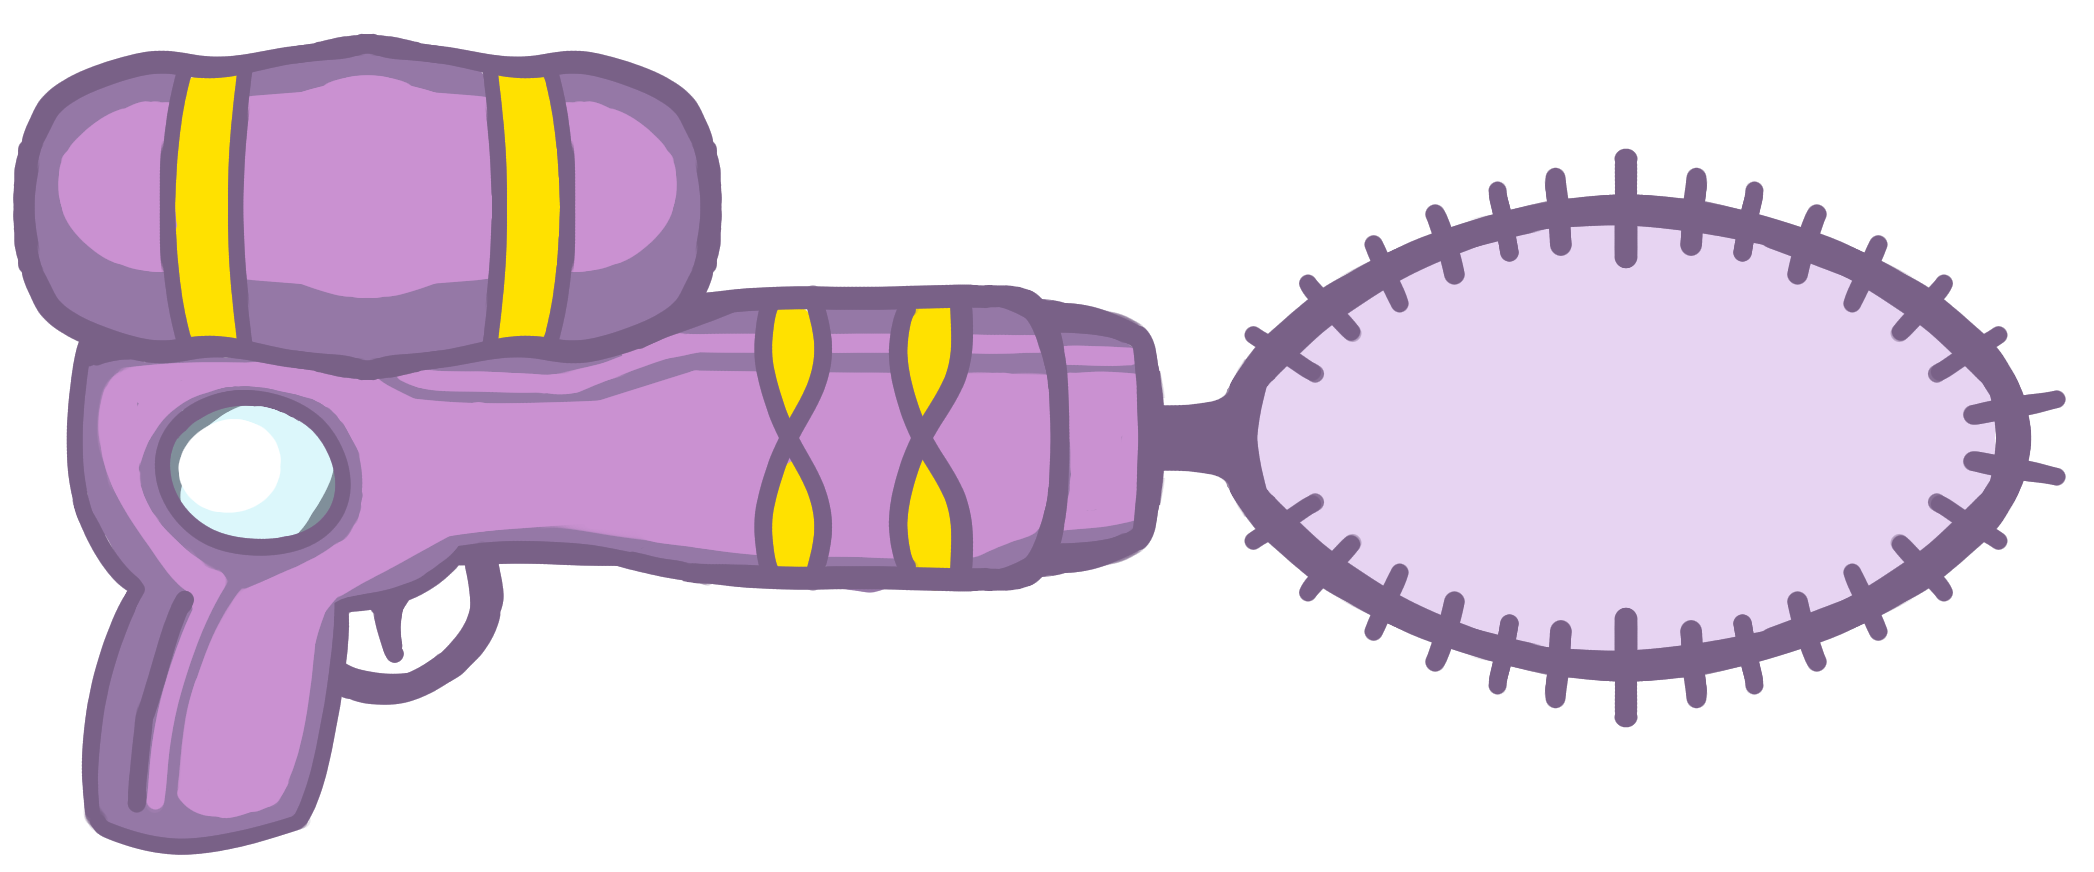
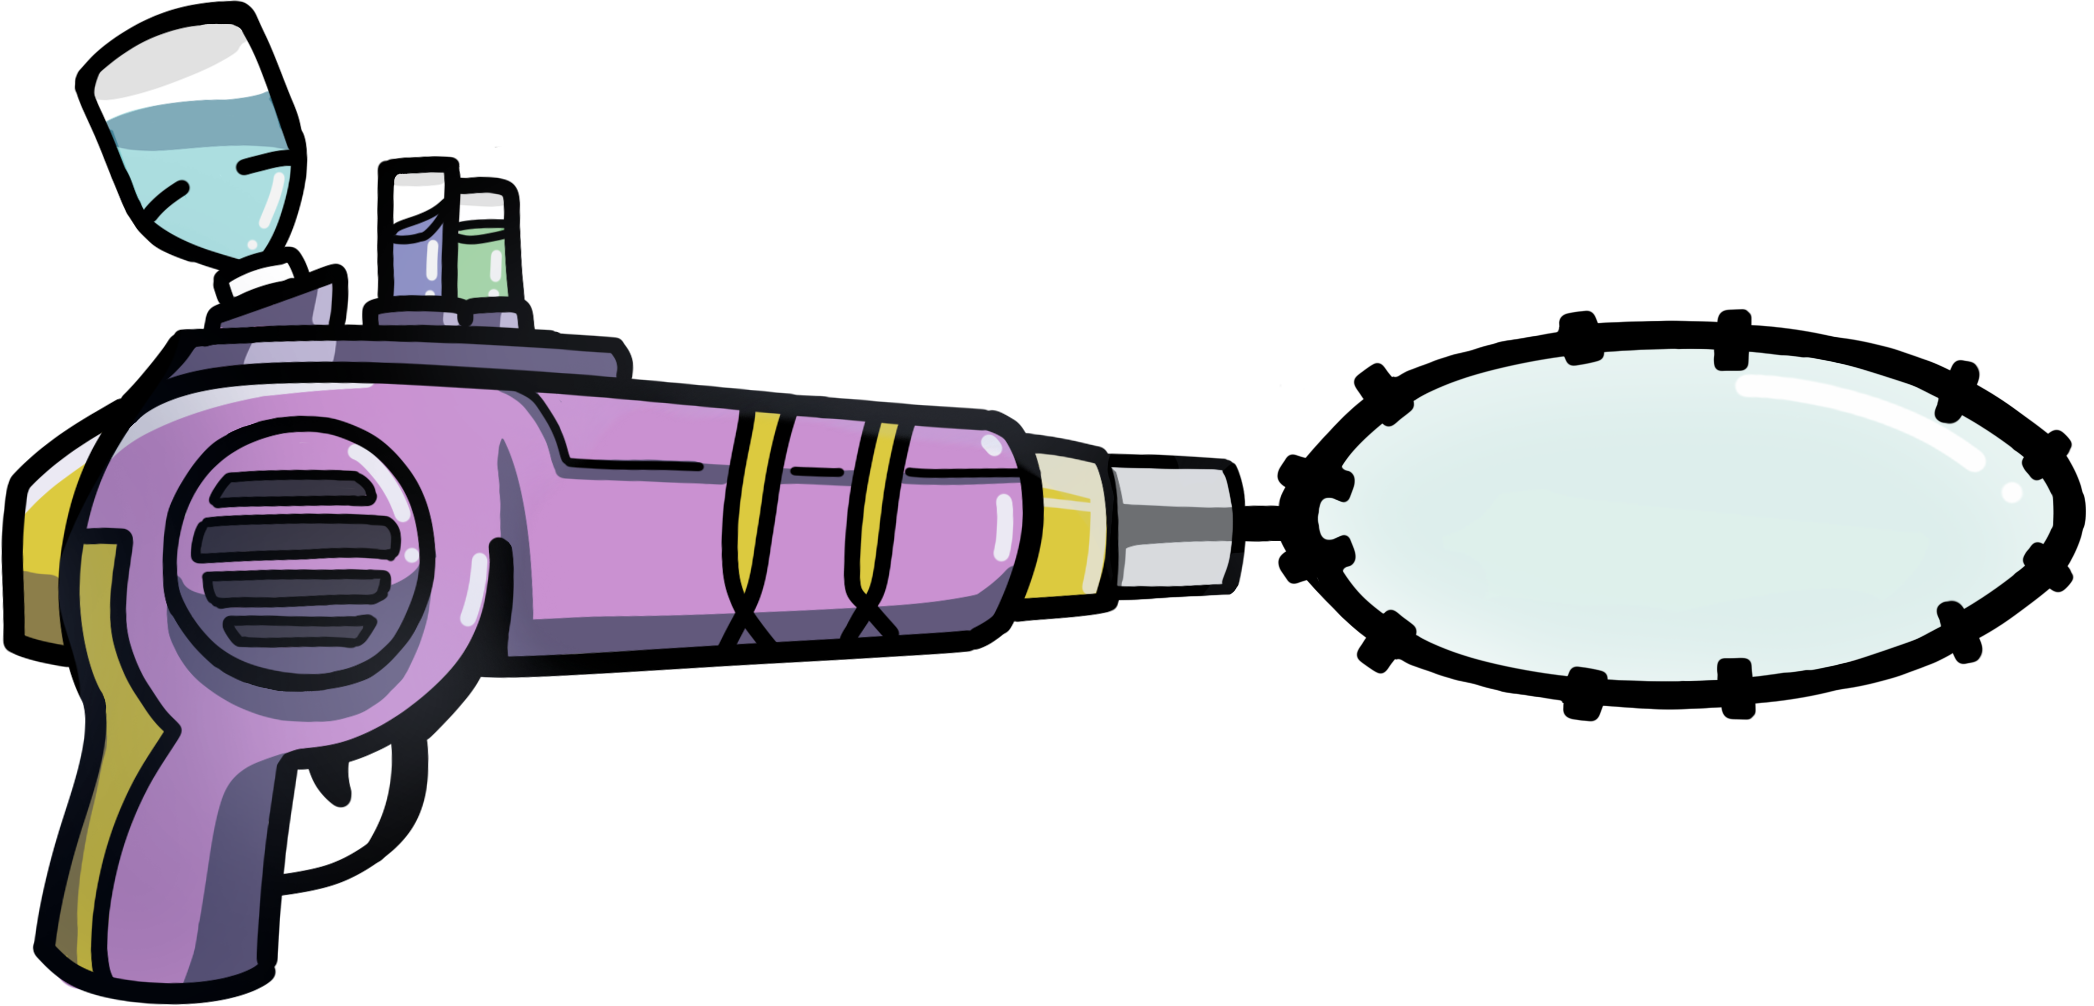
bubblegun art refresh and buffs

diff --git a/Assets/Resources/Player/Bubblemancer/BubbleGun.cs b/Assets/Resources/Player/Bubblemancer/BubbleGun.cs
@@ -6,14 +6,9 @@ public class BubbleGun : BubblemancerWand
     public override void ModifyUIOffsets(bool isBubble, ref Vector2 offset, ref float rotation, ref float scale)
     {
         base.ModifyUIOffsets(isBubble, ref offset, ref rotation, ref scale);
-        offset.x += 0.01f;
-        offset.y -= 0.01f;
-        scale *= 1.05f;
-        if (isBubble)
-        {
-            scale *= 1.05f;
-            offset *= 1.11f;
-        }
+        offset.x -= 0.05f;
+        offset.y -= 0.05f;
+        scale *= 1.025f;
     }
     public SpriteRenderer Upper;
     public SpriteRenderer Lower;
@@ -89,7 +84,7 @@ public class BubbleGun : BubblemancerWand
         Vector2 awayFromWand = new Vector2(2, 0.1f * dir).RotatedBy(playerToMouse.ToRotation());
         Vector2 toMouse = mouseAdjustedFromPlayer - (Vector2)transform.position - awayFromWand;
         float bodyDir = Mathf.Sign(p.rb.velocity.x);
-        Vector2 attemptedPosition = playerToMouse.normalized + p.rb.velocity.normalized * 0.1f;
+        Vector2 attemptedPosition = playerToMouse.normalized * 1.1f + p.rb.velocity.normalized * 0.1f;
 
         //Debug.Log(attemptedPosition.ToRotation() * Mathf.Rad2Deg);
 
@@ -113,11 +108,11 @@ public class BubbleGun : BubblemancerWand
                 float spreadAmt = (25f + shotCount * 0.5f) / shotCount;
                 for(int i = 0; i < shotCount; ++i)
                 {
-                    float speed = Utils.RandFloat(14.5f, 15) + 2.1f * player.FasterBulletSpeed;
+                    float speed = Utils.RandFloat(16.5f, 17) + 2.1f * player.FasterBulletSpeed;
                     float spread = spreadAmt * (i - (shotCount - 1) * 0.5f);
                     Projectile.NewProjectile<SmallBubble>((Vector2)transform.position + awayFromWand,
                         toMouse.normalized.RotatedBy(spread * Mathf.Deg2Rad)
-                        * speed + Utils.RandCircle(0.2f));
+                        * speed + Utils.RandCircle(0.15f));
                     TryDoingStarShot(ref starshotNum);
                 }
                 player.bonusBubbles %= 5;
